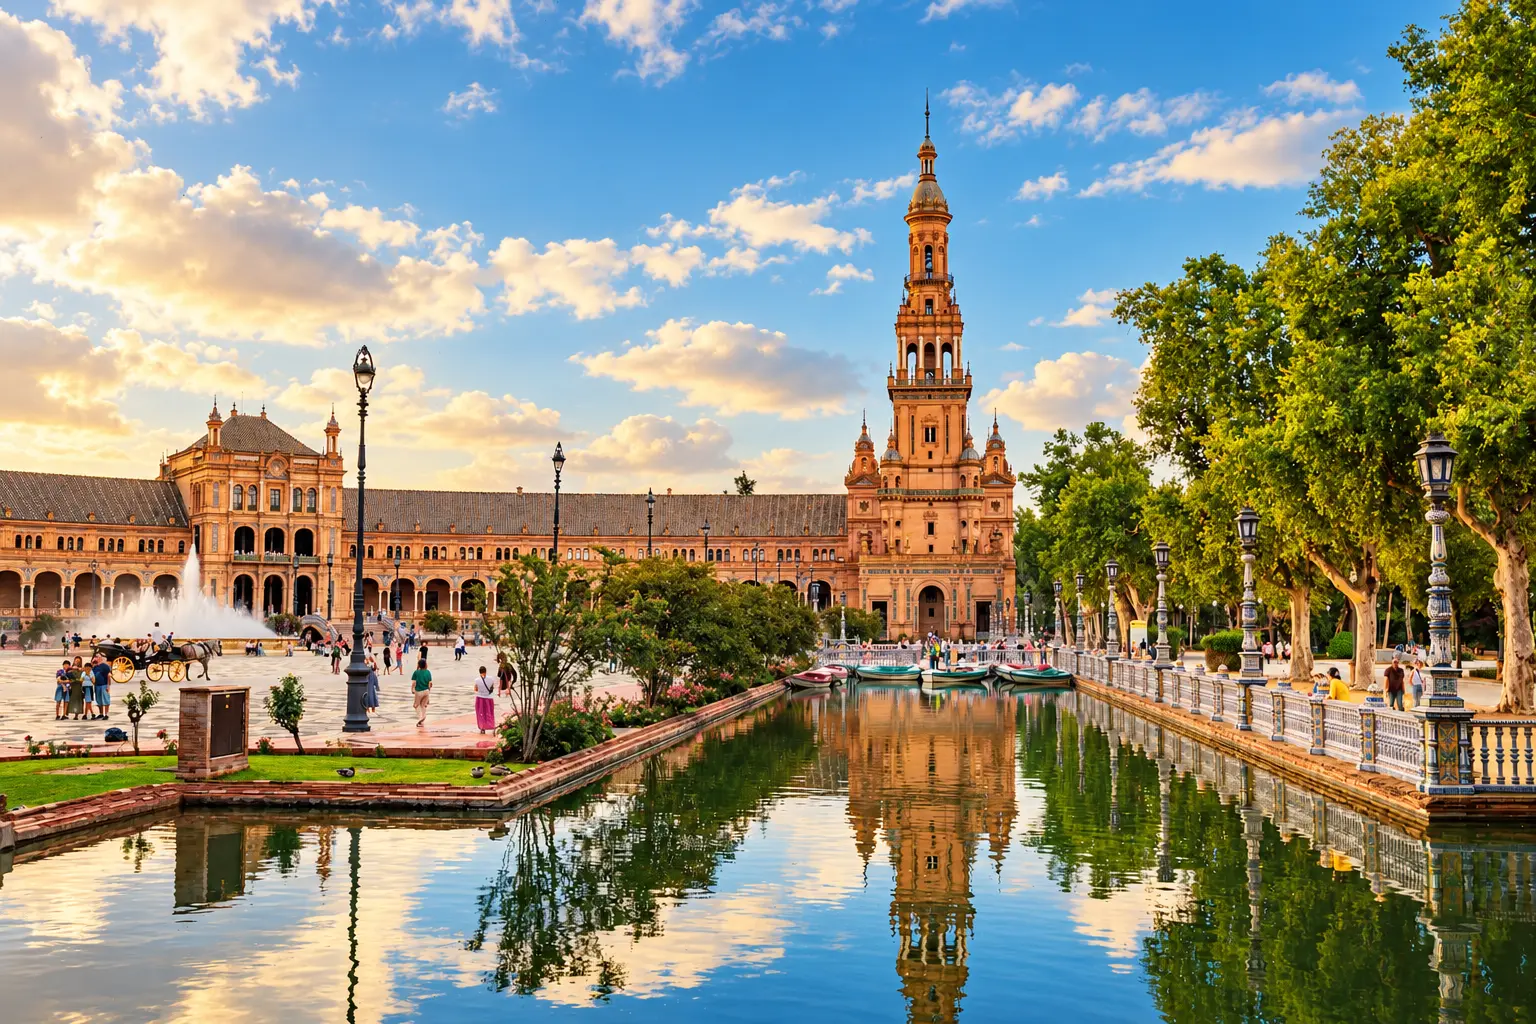
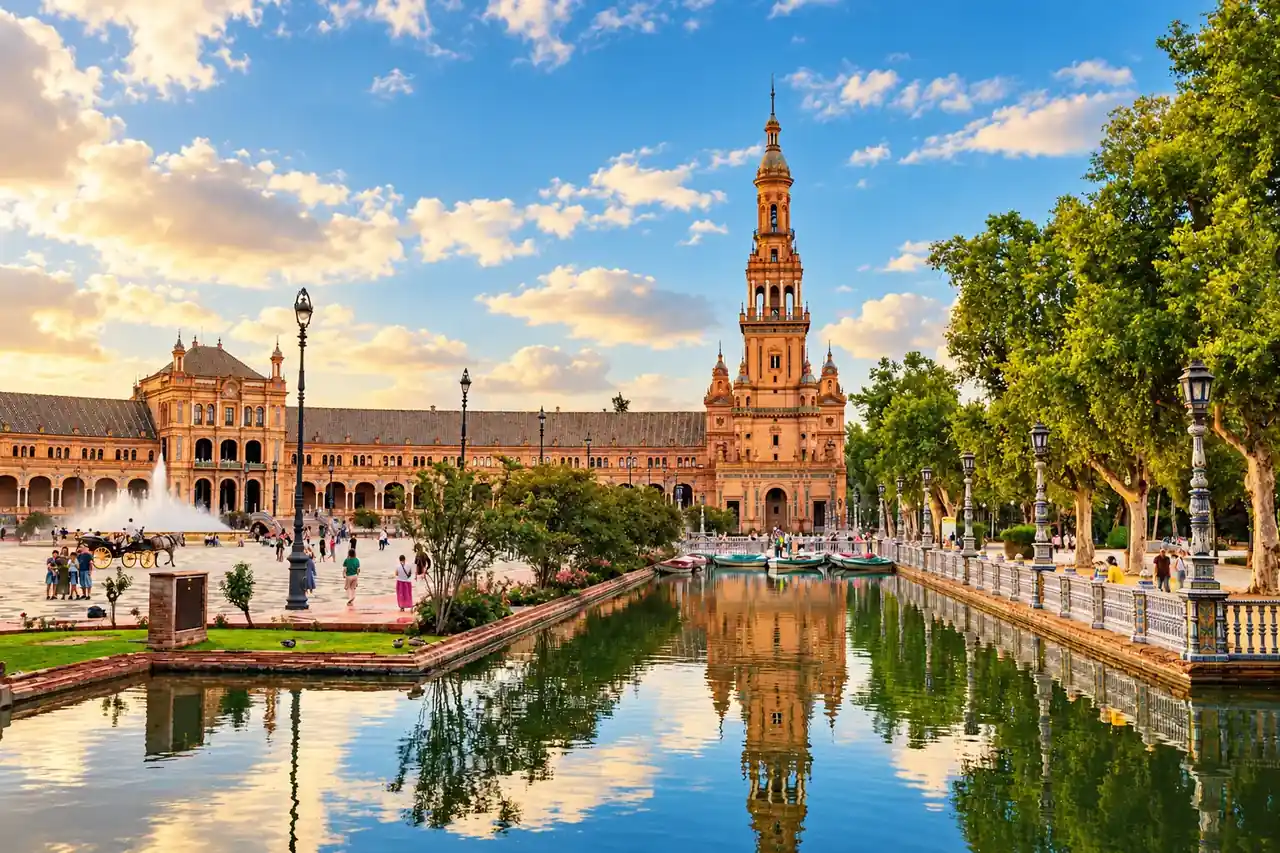
fix(s03): reduz imagens hero para o limite de 125 kB e padroniza cores
Recomprime sevilha-media (1000px) e sevilha-grande (1280px) para
ficarem abaixo de 125 kB, conforme a auditoria do curso, e ajusta o
srcset. Todas as cores do CSS passam a ser hexadecimais declaradas
como variaveis no :root.

diff --git a/estilos/local.css b/estilos/local.css
@@ -1,13 +1,19 @@
 /* Variáveis globais: cores inspiradas na bandeira da Espanha */
 :root {
+    /* Todas as cores em hexadecimal. Com 8 dígitos (#RRGGBBAA),
+       os dois últimos definem a opacidade: 00 = invisível, ff = sólido */
     --cor-vinho: #7a1017;
     --cor-vinho-escuro: #5a0b10;
     --cor-dourada: #e0b43a;
+    --cor-dourada-transparente: #e0b43a00;
     --cor-texto: #2a2a2a;
+    --cor-texto-claro: #ffffff;
+    --cor-texto-detalhe: #f0d9da;
     --cor-fundo: #ffffff;
-    --cor-linha: rgba(122, 16, 23, 0.15);
-    --fundo-icone: rgba(122, 16, 23, 0.08);
-    --fundo-card: rgba(255, 255, 255, 0.82);
+    --cor-linha: #7a101726;
+    --fundo-icone: #7a101714;
+    --fundo-card: #ffffffd1;
+    --cor-sombra: #0000004d;
     --fonte-texto: "Nunito Sans", Arial, sans-serif;
     --fonte-titulo: "Crimson Pro", Georgia, serif;
 }
@@ -33,7 +39,7 @@ header {
 
 h1 {
     margin: 0;
-    color: #ffffff;
+    color: var(--cor-texto-claro);
     font-family: var(--fonte-titulo);
     font-size: 2.6rem;
 }
@@ -51,11 +57,11 @@ h1::after {
 
 /* Gradiente: a linha some na ponta de fora e fica sólida perto do título */
 h1::before {
-    background: linear-gradient(to right, transparent, var(--cor-dourada));
+    background: linear-gradient(to right, var(--cor-dourada-transparente), var(--cor-dourada));
 }
 
 h1::after {
-    background: linear-gradient(to left, transparent, var(--cor-dourada));
+    background: linear-gradient(to left, var(--cor-dourada-transparente), var(--cor-dourada));
 }
 
 /* Imagem principal */
@@ -145,7 +151,7 @@ dl > :nth-last-child(-n + 2) {
 footer {
     background: linear-gradient(90deg, var(--cor-vinho-escuro), var(--cor-vinho), var(--cor-vinho-escuro));
     border-top: 3px solid var(--cor-dourada);
-    color: #ffffff;
+    color: var(--cor-texto-claro);
     text-align: center;
     padding: 0.75rem 1rem;
     font-family: var(--fonte-titulo);
@@ -159,7 +165,7 @@ footer p {
 .detalhes {
     font-family: var(--fonte-texto);
     font-size: 0.8rem;
-    color: #f0d9da;
+    color: var(--cor-texto-detalhe);
 }
 
 
@@ -193,7 +199,7 @@ footer p {
         background-color: var(--fundo-card);
         backdrop-filter: blur(6px);
         border-radius: 1.25rem;
-        box-shadow: 0 8px 24px rgba(0, 0, 0, 0.3);
+        box-shadow: 0 8px 24px var(--cor-sombra);
         border-bottom: none;
         text-align: left;
     }
@@ -227,7 +233,7 @@ footer p {
         text-align: center;
         border-radius: 50%;
         background-color: var(--cor-vinho);
-        color: #ffffff;
+        color: var(--cor-texto-claro);
     }
 
     .dados h2::after {

diff --git a/local.html b/local.html
@@ -21,7 +21,7 @@
     <main>
         <picture class="principal">
             <source media="(min-width: 800px)"
-                    srcset="imagens/local/sevilha-media.webp 1000w, imagens/local/sevilha-grande.webp 1536w"
+                    srcset="imagens/local/sevilha-media.webp 1000w, imagens/local/sevilha-grande.webp 1280w"
                     sizes="100vw">
             <img src="imagens/local/sevilha-pequena.webp"
                  alt="Plaza de España, em Sevilha, com a torre refletida no canal sob céu parcialmente nublado"
